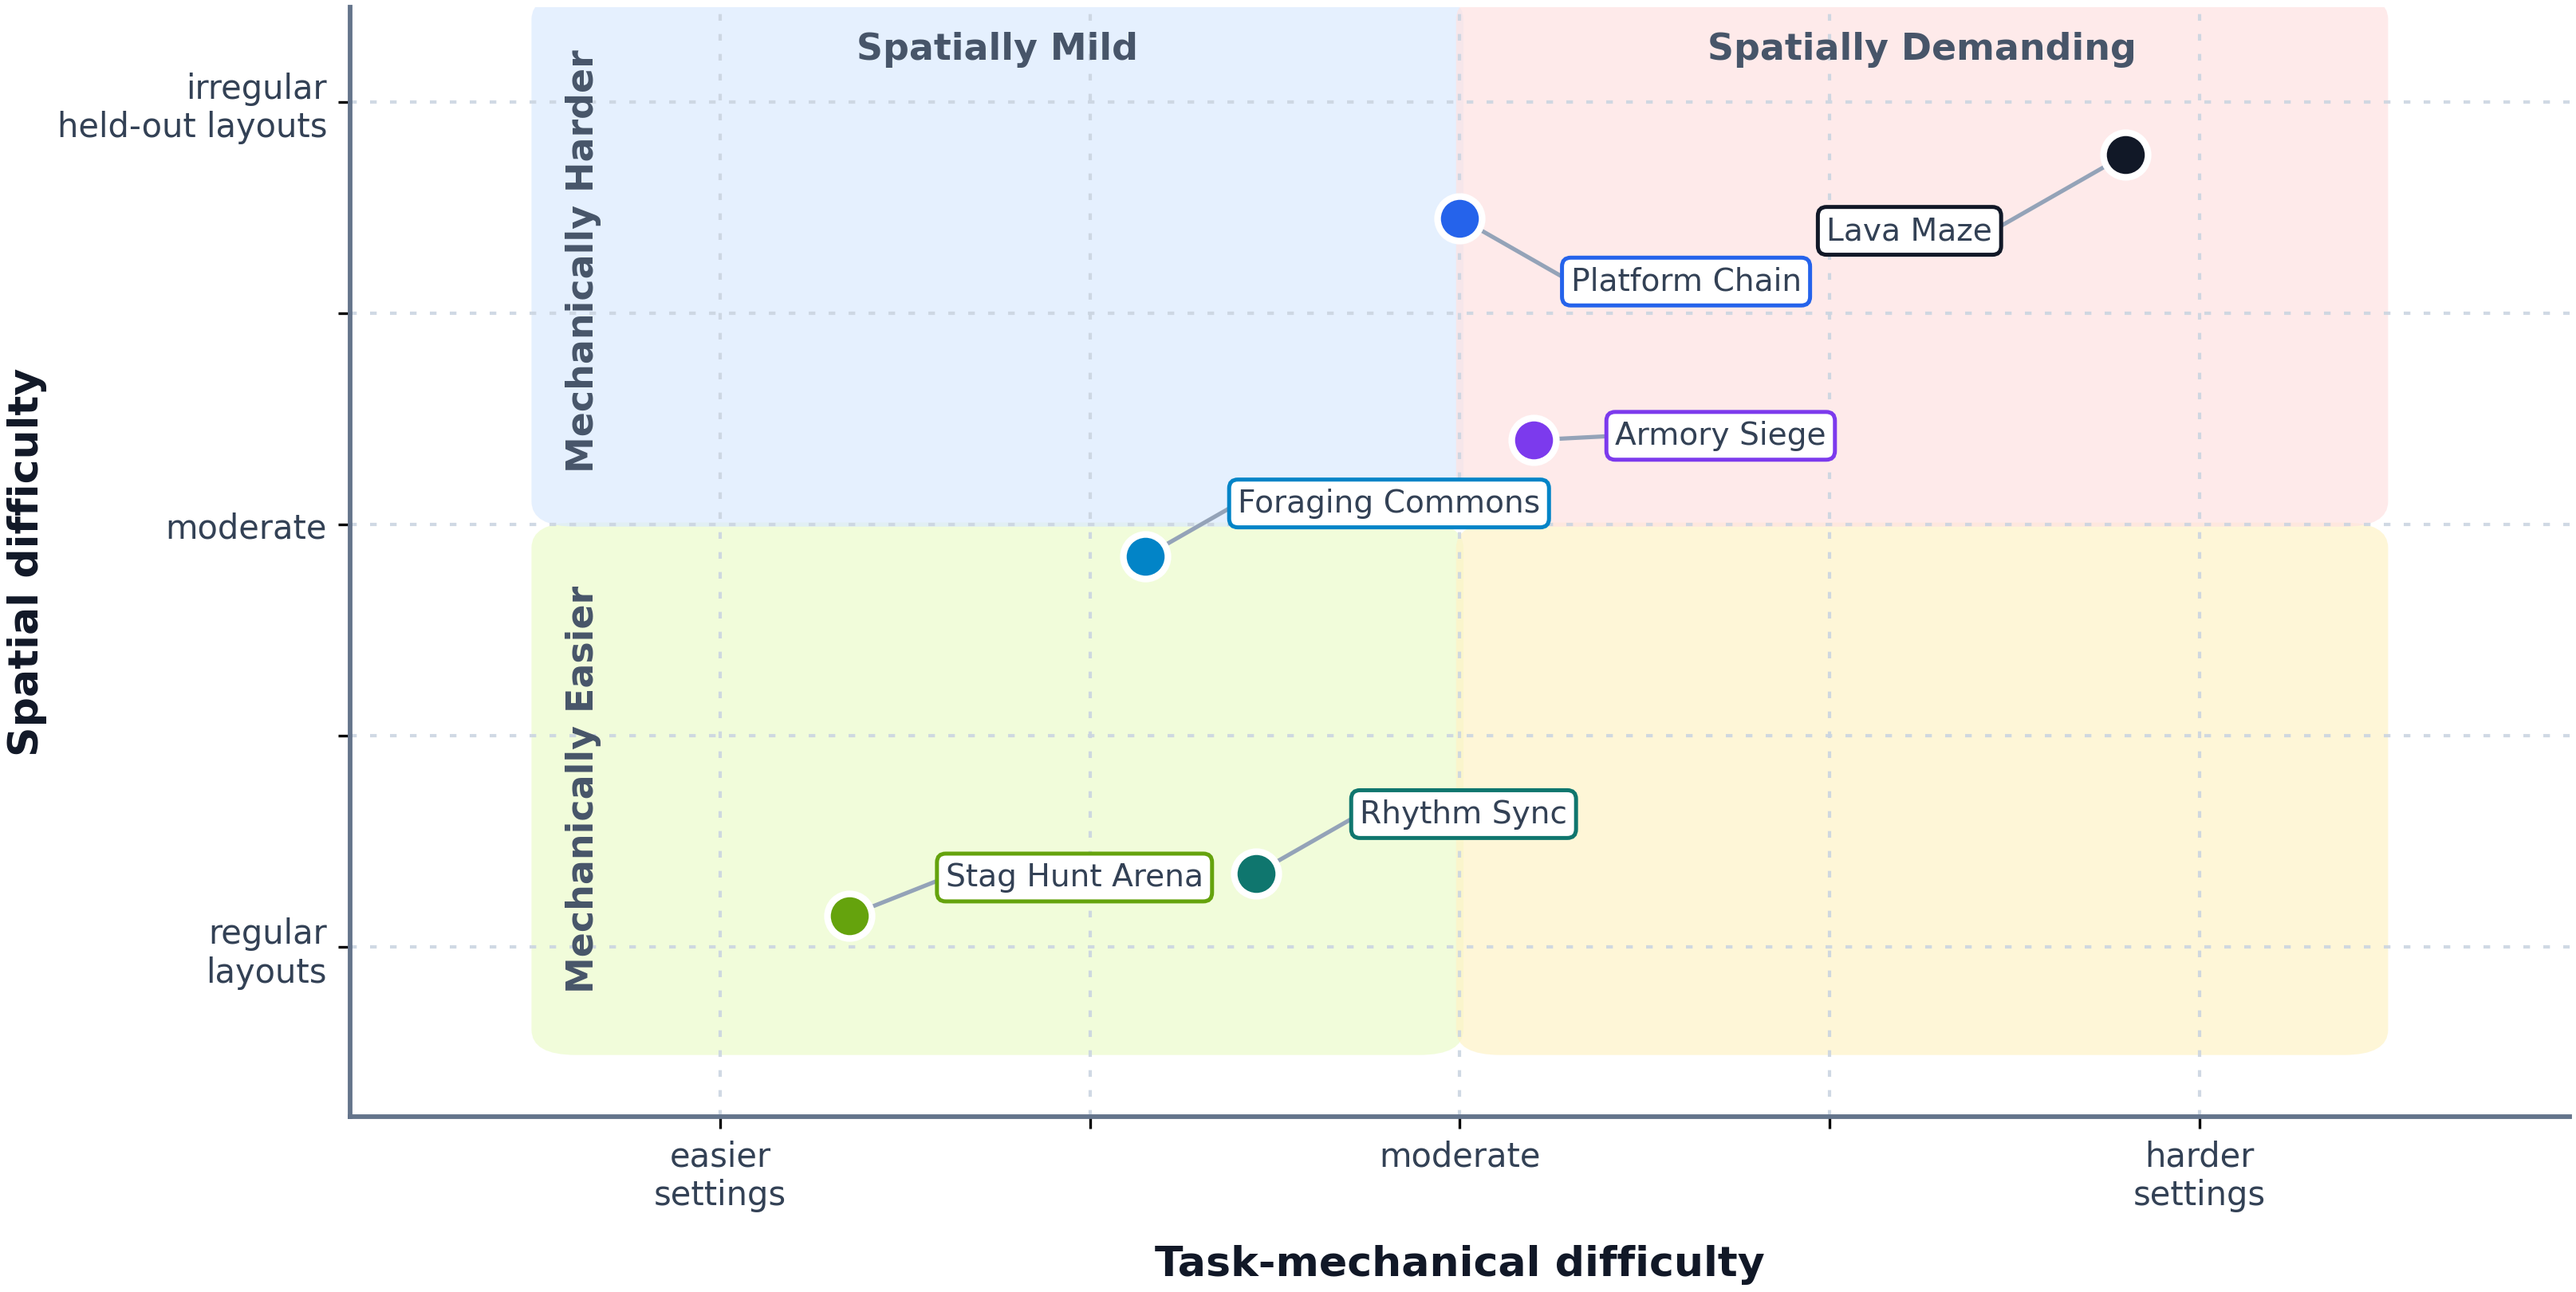
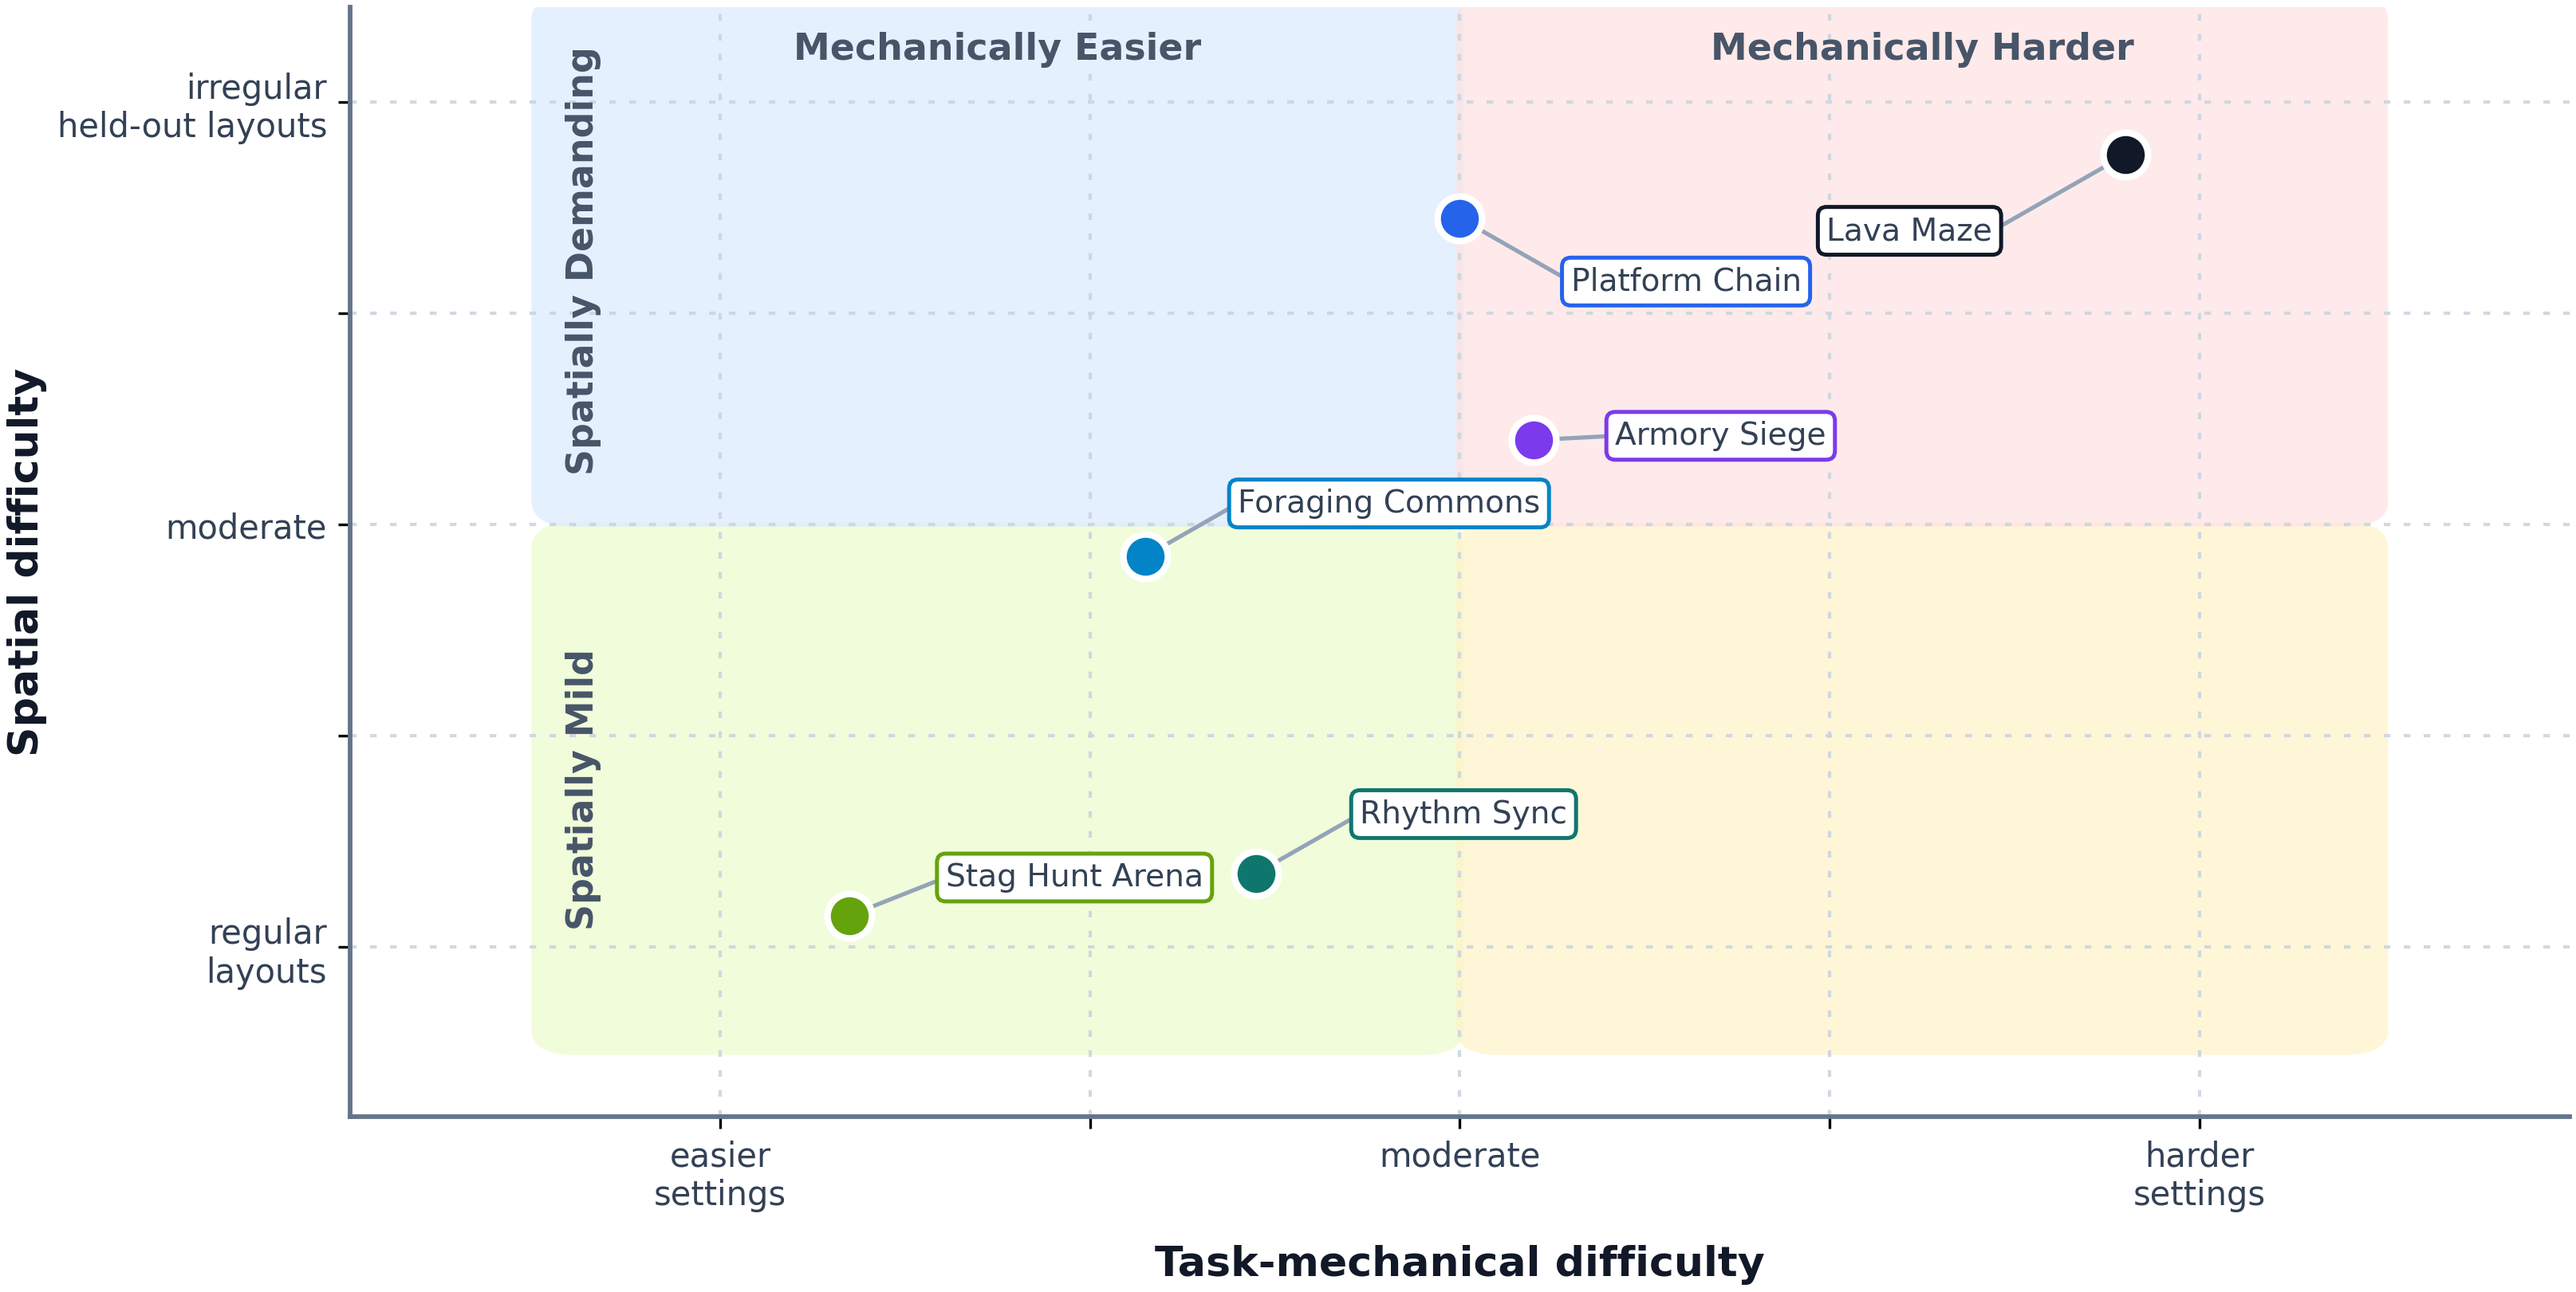
fix: update quadrant in difficulty axes

diff --git a/scripts/difficulty_axes_figure.py b/scripts/difficulty_axes_figure.py
@@ -97,10 +97,10 @@ def add_axis_background(ax: plt.Axes) -> None:
 
 def add_quadrant_labels(ax: plt.Axes) -> None:
     labels = [
-        (1.75, 5.25, "Spatially Mild"),
-        (4.25, 5.25, "Spatially Demanding"),
-        (0.63, 1.75, "Mechanically Easier"),
-        (0.63, 4.25, "Mechanically Harder"),
+        (1.75, 5.25, "Mechanically Easier"),
+        (4.25, 5.25, "Mechanically Harder"),
+        (0.63, 1.75, "Spatially Mild"),
+        (0.63, 4.25, "Spatially Demanding"),
     ]
     for x, y, text in labels:
         rotation = 90 if x < 1.0 else 0
